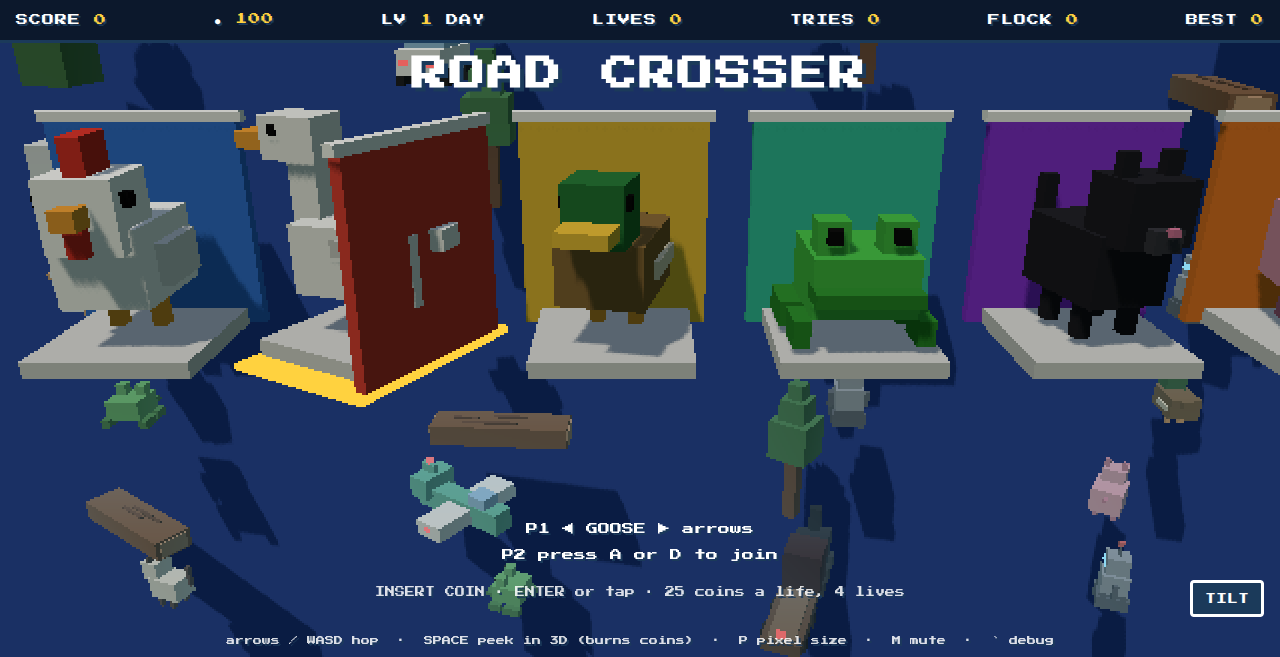
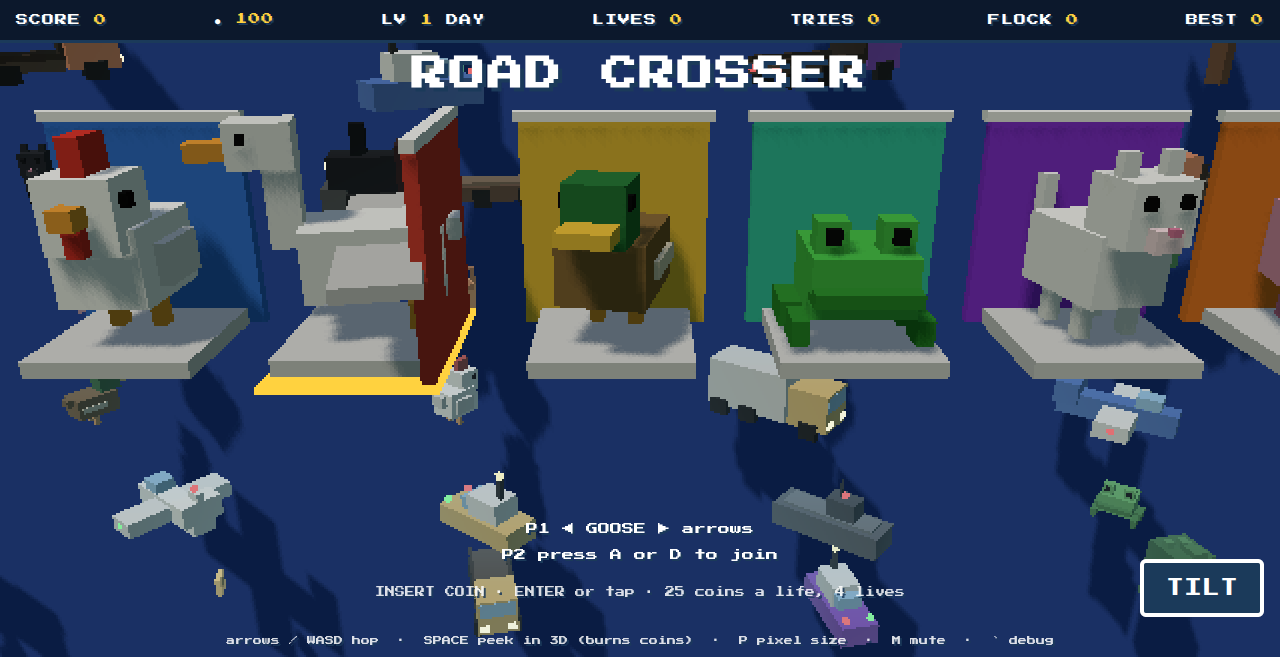
Riders bounce off cabs and pilot houses; hops track the carrier; eyes on pig and cat faces; wide shadow box on the title

diff --git a/src/player.js b/src/player.js
@@ -68,6 +68,11 @@ export class Player {
       return;
     }
     this.from = { x: this.x, z: this.z, y: this.y };
+    // A hop that starts on a carrier moves with it (a sideways hop along a deck
+    // lands on the deck, not where the deck used to be).
+    this.hopCarrier = dr === 0 && this.carrier ? this.carrier : null;
+    this.hopCarrierX = this.hopCarrier?.x ?? 0;
+    this.hopDir = [dc, dr];
     // Leaving something tall: the hop keeps its altitude, then comes the drop.
     const high = this.y > 0.6;
     this.to = { x: tc, z: -tr, y: high ? this.y : 0 };
@@ -94,8 +99,10 @@ export class Player {
   }
 
   // Shoved one cell back by a bumper. Nowhere to go means a splat after all.
+  // A rider bumping into the cab goes back to the deck cell it came from.
   bounce(lane) {
-    const col = Math.round(this.x) - lane.dir;
+    const fromDeck = this.moving && this.hopCarrier;
+    const col = fromDeck ? Math.round(this.from.x) : Math.round(this.x) - lane.dir;
     const row = this.moving ? this.trow : this.row;
     if (Math.abs(col) > W || this.world.isBlocked(col, row, row) || this.isOccupied?.(col, row)) { this.die(lane.scenario.id === 'rail' ? 'train' : lane.scenario.id === 'runway' ? 'plane' : 'car'); return; }
     this.row = row; this.col = col;
@@ -135,6 +142,7 @@ export class Player {
     const wing = this.world.wingAt(this.x, this.row);
     if (wing) { this.mount(wing); this.onLanded?.(); this.onLandedHint?.(); return; }
     const cause = lane.scenario.onLand?.(lane, this);
+    if (cause === 'bounce') { this.moving = true; this.t = 1; this.bounce(lane); return; }
     if (cause) { this.die(cause); return; }
     if (this.carrier) this.carrierOffset = this.x - this.carrier.x;
     if (lane.takeCoin(this.col)) this.gotCoin();
@@ -194,6 +202,10 @@ export class Player {
     if (this.moving) {
       this.t += dt / HOP;
       const t = Math.min(1, this.t);
+      if (this.hopCarrier) {
+        const dx = this.hopCarrier.x - this.hopCarrierX;
+        this.from.x += dx; this.to.x += dx; this.hopCarrierX = this.hopCarrier.x;
+      }
       this.x = lerp(this.from.x, this.to.x, t);
       this.z = lerp(this.from.z, this.to.z, t);
       const s = Math.sin(Math.PI * t);
@@ -231,7 +243,7 @@ export class Player {
     if (!this.carrier?.wing && !this.airborne) {
       const checkRow = this.moving && this.t > 0.5 ? this.trow : this.row;
       const lane = this.world.laneAt(checkRow);
-      const cause = lane?.scenario.lethalAt?.(lane, this.x);
+      const cause = lane?.scenario.lethalAt?.(lane, this.x, this);
       if (cause === 'bounce') this.bounce(lane);
       else if (cause) this.die(cause);
     }

diff --git a/src/characters.js b/src/characters.js
@@ -105,7 +105,7 @@ export const makePig = () => twoFrames((g, air) => {
   g.add(box(0.28, 0.2, 0.1, dark, 0, 0.7, -0.57));
   g.add(box(0.06, 0.06, 0.04, BLACK, 0.07, 0.77, -0.63));
   g.add(box(0.06, 0.06, 0.04, BLACK, -0.07, 0.77, -0.63));
-  eyes(g, 0.92, -0.4, 0.18, 0.07);
+  eyes(g, 0.92, -0.53, 0.14, 0.07);                          // on the face
   g.add(box(0.12, 0.18, 0.08, dark, 0.18, air ? 1.16 : 1.1, air ? -0.15 : -0.25));   // ears flap back
   g.add(box(0.12, 0.18, 0.08, dark, -0.18, air ? 1.16 : 1.1, air ? -0.15 : -0.25));
   g.add(box(0.08, 0.08, 0.2, dark, 0, air ? 0.7 : 0.6, 0.5));
@@ -132,7 +132,7 @@ export const makeCat = (kind = 'tabby') => { const m = twoFrames((g, air) => {
   g.add(box(0.2, 0.15, 0.2, c.muzzle, 0, bodyY + 0.45, -0.5));
   if (c.points) g.add(box(0.3, 0.26, 0.06, c.points, 0, bodyY + 0.47, -0.5));
   g.add(box(0.06, 0.05, 0.06, 0xe07fa4, 0, bodyY + 0.57, -0.62));
-  eyes(g, bodyY + 0.7, -0.45, 0.16, 0.07);
+  eyes(g, bodyY + 0.72, -0.52, 0.13, 0.07);                  // on the face
   g.add(box(0.12, 0.16, 0.08, ear, 0.16, bodyY + 0.89, air ? -0.2 : -0.3));   // ears back in the air
   g.add(box(0.12, 0.16, 0.08, ear, -0.16, bodyY + 0.89, air ? -0.2 : -0.3));
   if (air) g.add(box(0.1, 0.1, 0.5, tail, 0.15, bodyY + 0.3, 0.7));    // tail straight back

diff --git a/src/main.js b/src/main.js
@@ -41,7 +41,7 @@ const ui = {
   p1: $('p1'), p2: $('p2'), lives: $('lives'), retry: $('retry'),
 };
 const game = new Game({ scene, camera, sky, ui, headlights });
-if (import.meta.env.DEV) window.__game = game;   // for the headless smoke test
+if (import.meta.env.DEV) { window.__game = game; import('./meshes.js').then((m) => { window.__meshes = m; }); }   // for the headless smoke test
 const debugKey = installDebug(game, ui);
 installTouch(document.getElementById('hud'));
 let started = false;
@@ -50,7 +50,7 @@ if (playtest) applyBeforeStart(game, playtest);
 game.preview();
 let select = new Select(scene, camera);
 select.setPicks(game.picks);
-let attract = new Attract(scene);
+let attract = new Attract(scene, sky);
 
 // Insert coin: lives clink in, the picked cards blink, and the run starts.
 function begin() {
@@ -79,7 +79,7 @@ function toTitle() {
   ui.title.classList.remove('hide');
   select = new Select(scene, camera);
   select.setPicks(game.picks);
-  attract = new Attract(scene);
+  attract = new Attract(scene, sky);
 }
 let inserting = false;
 game.onTimeout = toTitle;

diff --git a/src/attract.js b/src/attract.js
@@ -31,8 +31,10 @@ function desaturate(material) {
 }
 
 export class Attract {
-  constructor(scene) {
+  constructor(scene, sky) {
     this.scene = scene;
+    this.sky = sky;
+    sky?.setShadowSpan(48);
     this.group = new THREE.Group();
     // Lit so the entities in front throw shadows onto it.
     const wall = new THREE.Mesh(new THREE.PlaneGeometry(400, 80), new THREE.MeshLambertMaterial({ color: 0x3558b8, fog: false }));
@@ -75,5 +77,5 @@ export class Attract {
     }
   }
 
-  dispose() { this.scene.remove(this.group); }
+  dispose() { this.scene.remove(this.group); this.sky?.setShadowSpan(18); }
 }

diff --git a/src/scenarios/road.js b/src/scenarios/road.js
@@ -40,10 +40,10 @@ export default {
     if (gauntlet) lane.bonusDrop();
   },
   update(lane, dt) { lane.advance(dt); },
-  lethalAt(lane, x) {
+  lethalAt(lane, x, player) {
     const m = lane.moverAt(x, 0.35);
     if (!m || lane.onBed(m, x)) return null;
-    return lane.rearOf(m, x) ? 'bounce' : 'car';
+    return lane.rearOf(m, x) || lane.riding(m, player) ? 'bounce' : 'car';
   },
   onLand(lane, player) {
     const m = lane.moverAt(player.x, 0.35);

diff --git a/src/sky.js b/src/sky.js
@@ -92,6 +92,13 @@ export class Sky {
   }
 
   get dark() { return !!SKIES[this.name].dark; }
+
+  // Size of the sun's shadow box around the focus; the title needs a wide one.
+  setShadowSpan(size) {
+    const sc = this.sun.shadow.camera;
+    sc.left = -size; sc.right = size; sc.top = size; sc.bottom = -size;
+    sc.updateProjectionMatrix();
+  }
   get headlights() { const s = SKIES[this.name]; return !!(s.dark || s.dusk); }
 
   apply(name) {

diff --git a/src/lane.js b/src/lane.js
@@ -132,6 +132,9 @@ export class Lane {
     return Math.abs(x - rear) < pad && (m.x - x) * this.dir > 0;
   }
 
+  // True when the player is riding (or just hopped along) this very mover.
+  riding(m, player) { return !!player && (player.carrier === m || player.hopCarrier === m); }
+
   moverAt(x, pad) {
     for (const m of this.movers) if (Math.abs(x - m.x) < m.len / 2 + pad) return m;
     return null;

diff --git a/src/scenarios/rail.js b/src/scenarios/rail.js
@@ -126,10 +126,10 @@ export default {
     return false;
   },
 
-  lethalAt(lane, x) {
+  lethalAt(lane, x, player) {
     const m = lane.moverAt(x, 0.35);
     if (!m || lane.onBed(m, x)) return null;
-    return lane.rearOf(m, x) ? 'bounce' : 'train';
+    return lane.rearOf(m, x) || lane.riding(m, player) ? 'bounce' : 'train';
   },
   onLand(lane, player) {
     const m = lane.moverAt(player.x, 0.35);

diff --git a/src/scenarios/river.js b/src/scenarios/river.js
@@ -101,7 +101,7 @@ export default {
     const m = lane.moverAt(player.x, 0.3);
     if (!m || m.submerged) return 'water';
     if (m.head && within(lane, m, m.head, player.x)) return 'chomped';
-    if (!within(lane, m, m.bed, player.x)) return 'water';
+    if (!within(lane, m, m.bed, player.x)) return lane.riding(m, player) ? 'bounce' : 'water';
     player.carrier = m;
     return null;
   },
